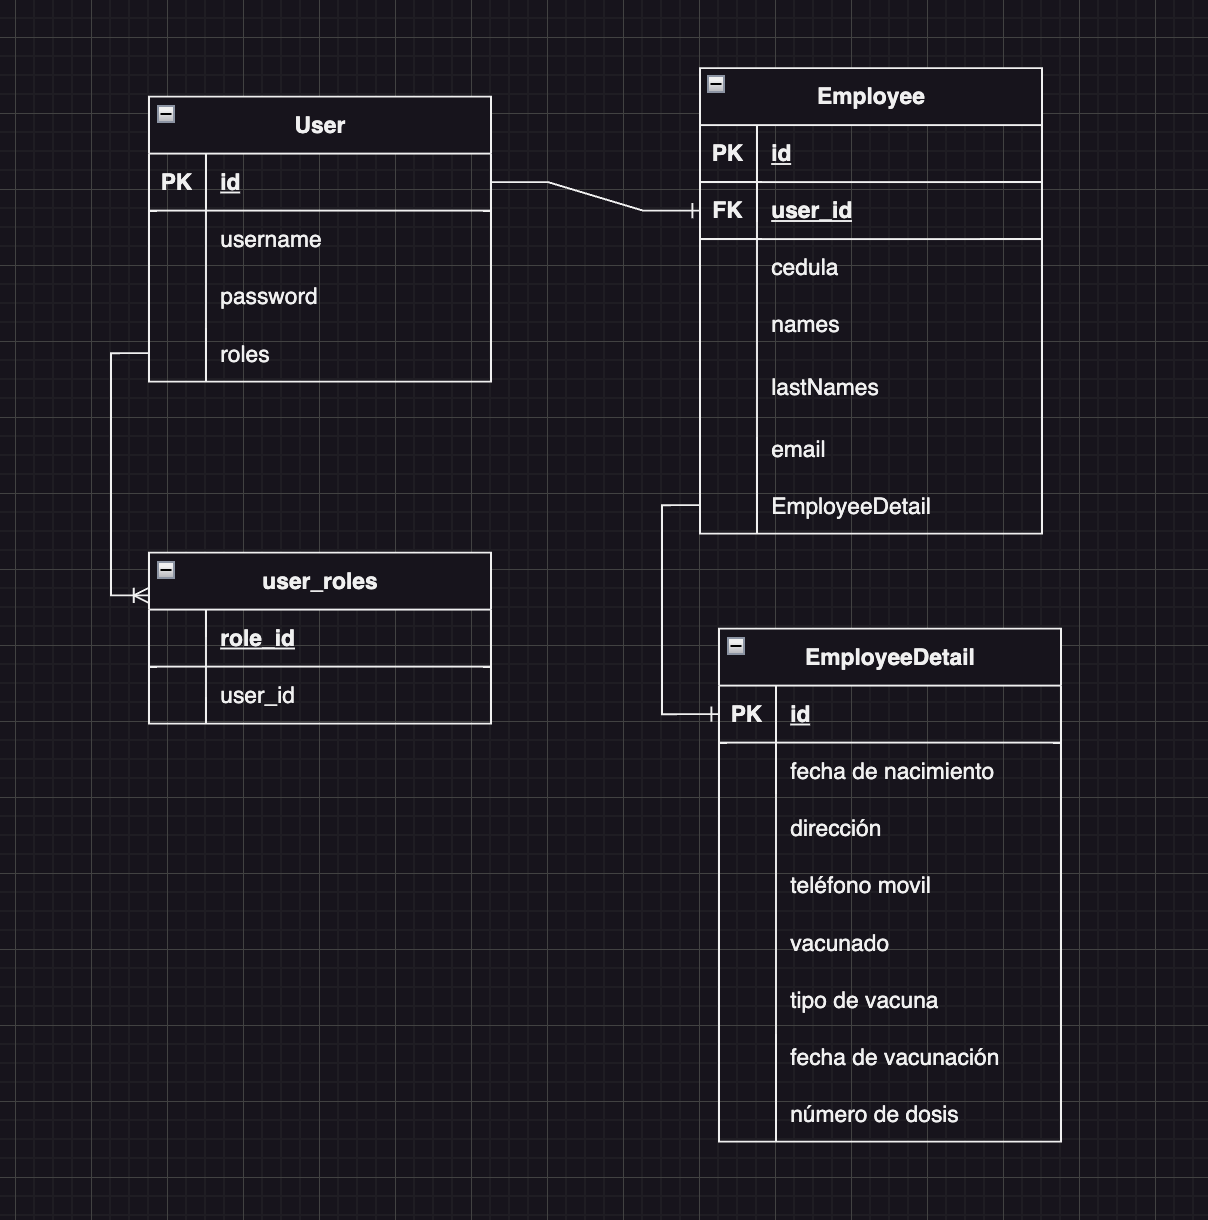
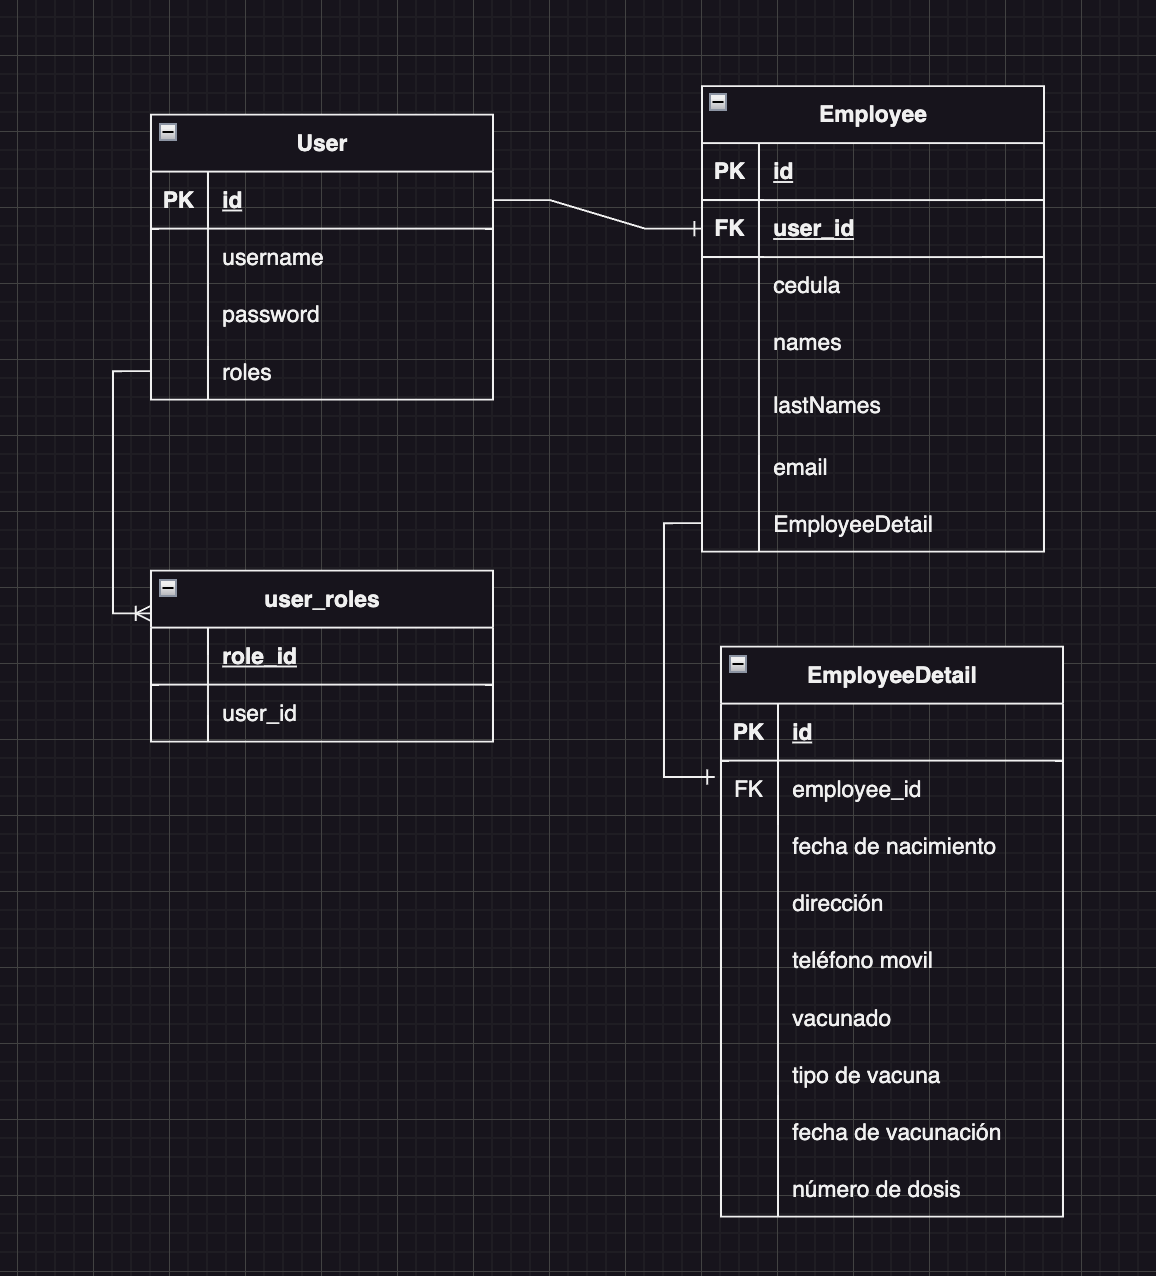
add more description for project

diff --git a/ReadMe.md b/ReadMe.md
@@ -1,22 +1,32 @@
 # Kruger Employees API Documentation
 
+![](./ERD diagram.png)
+
 This document outlines the usage of the Kruger Employees API endpoints. The API is designed to manage employee records, including creating employees, managing employee details, and user authentication.
 Base URL
 
+Create the database for the Kruger Employees API. Replace kruger_employees with your desired database name if you prefer a different one:
+
+    CREATE DATABASE kruger_employees;
+
+Credentials for admin user:
+    
+    username: admin
+    password: password
+
 All URLs referenced in the documentation have the following base:
 
-bash
 
-http://localhost:8080/api
+    http://localhost:8080/api
 
 The base URL will change depending on the environment where the API is deployed.
 Authentication
 
 Several endpoints require a valid JWT token provided in the request header:
 
-makefile
 
-Authorization: Bearer YOUR_JWT_TOKEN
+
+    Authorization: Bearer YOUR_JWT_TOKEN
 
 Login
 
